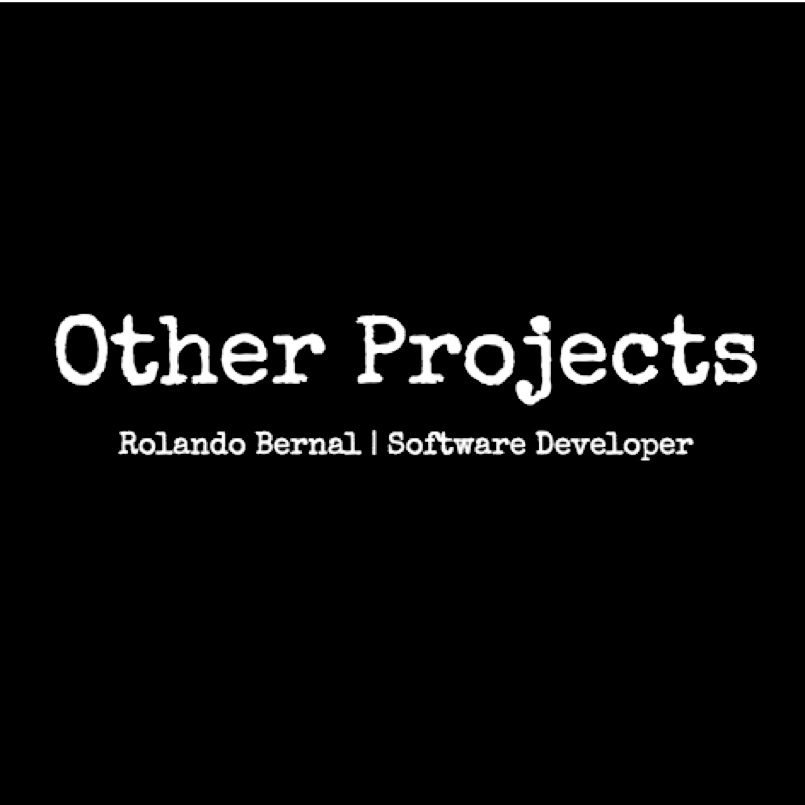
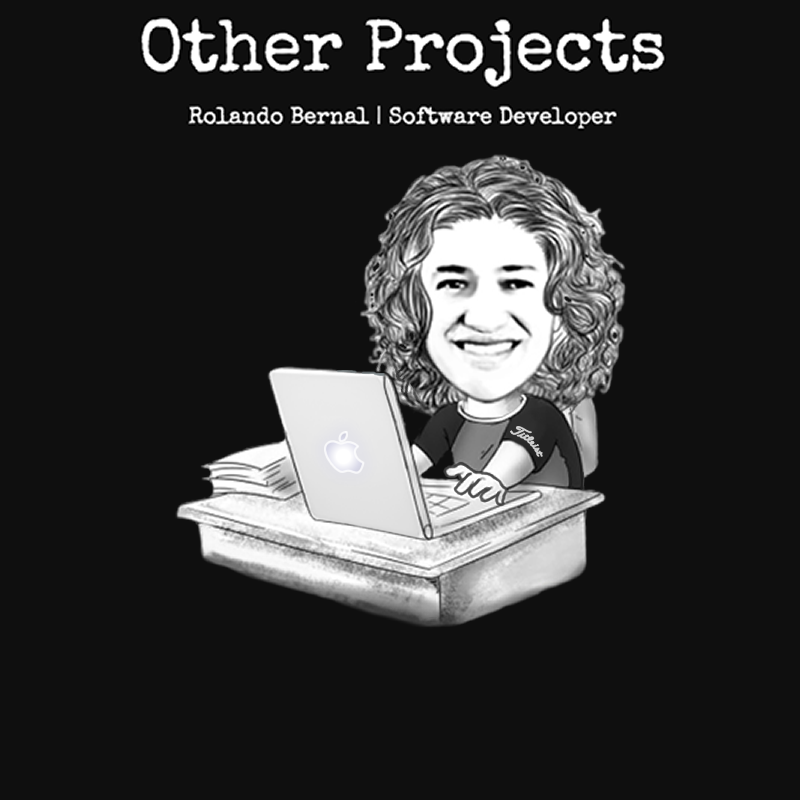
Added Other Projects link to the Projects Section

Changed region(s): [[0.0625, 0.1875, 0.9375, 0.7812], [0.0, 0.0, 1.0, 0.1562]]

diff --git a/index.html b/index.html
@@ -584,7 +584,7 @@
 												<div class="modal-body">
 														<h2>Other Projects</h2>
 														<hr>
-														<img src="assets/img/projects/otherprojects.png" class="img-responsive img-centered" alt="Other Projects">
+														<img src="assets/img/projects/otherprojects-modal.png" class="img-responsive img-centered" alt="Other Projects">
 														<br><hr class="small-line"><br>
 														<p><b>Lando B | Web Solutions</b> is a full responsive, retina ready, clean code website <br>created to learn new techniques with CSS transitions and jQuery.</p>
 														<h5><b>Project Details</b></h5>
